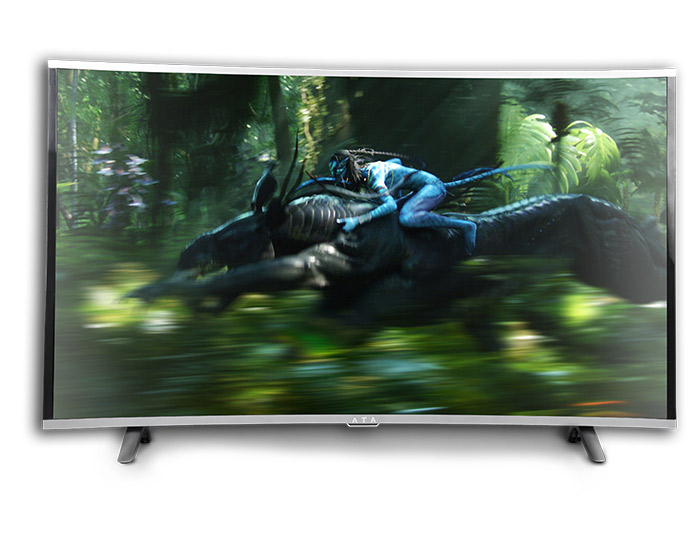
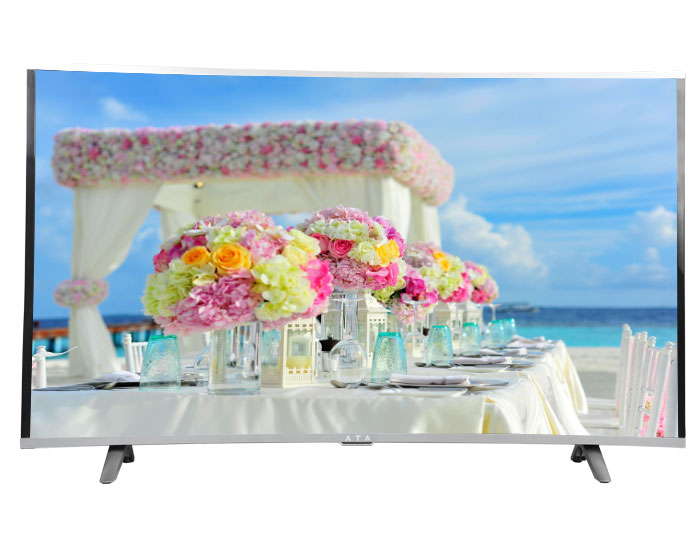
ata's ammends

diff --git a/assets/css/responsive.css b/assets/css/responsive.css
@@ -322,6 +322,19 @@
 	}
 }
 
-@media (max-width: 480px) {
-
+@media (max-width: 500px) {
+	.bx-wrapper, .bx-viewport, .bx-wrapper img {
+		height: 60%!important;
+		width: 100%;
+	}  
+	
+	#slider {
+		height: 200px;
+		background: #ffffff;
+		margin-bottom: 44px;
+		margin-top: 120px;
+	}
+	.sitemap-widget {
+    	margin-top: 310px;
+	}
 }

diff --git a/pages/home.tpl.php b/pages/home.tpl.php
@@ -11,10 +11,8 @@
     <div class="overlay">
    <ul class="bxslider">
   <li><img src="assets/images/slider/1.png" /></li>
-<!--  <li><img src="assets/images/slider/6.png" /></li>-->
-<!--  <li><img src="assets/images/slider/3.png" /></li>-->
-<!--  <li><img src="assets/images/slider/11.png" /></li>-->
-<!--  <li><img src="assets/images/slider/10.png" /></li>-->
+  <li><img src="assets/images/slider/4.png" /></li>
+  <li><img src="assets/images/slider/3.png" /></li>
   <li><img src="assets/images/slider/2.png" /></li>
 
 
@@ -92,11 +90,11 @@
                                     </div>
                                 </div>
                                 <div class="span3 project-post">
-                                    <img alt="" src="<?= IMG_DIR; ?>products/tv6.png">
+                                    <img alt="" src="<?= IMG_DIR; ?>products/tv3.jpg">
                                     <div class="project-content">
                                         <h2>شاشات</h2>
                                         <p>شاشة Curved LED</p>
-                                        <a class="zoom-image" href="<?= IMG_DIR; ?>products/tv6.png" title="شاشة Curved LED" data-fancybox-group="portfolio"></a>
+                                        <a class="zoom-image" href="<?= IMG_DIR; ?>products/tv3.jpg" title="شاشة Curved LED" data-fancybox-group="portfolio"></a>
                                         <a class="link-image" href="tv-curved-led.php"></a>
                                     </div>
                                 </div>
@@ -115,11 +113,11 @@
                                     </div>
                                 </div>
                                 <div class="span3 project-post">
-                                    <img alt="" src="<?= IMG_DIR; ?>products/tv-silver.png">
+                                    <img alt="" src="<?= IMG_DIR; ?>products/tv5.jpg">
                                     <div class="project-content">
                                         <h2>شاشات</h2>
                                         <p>شاشة SMART SILVER LED</p>
-                                        <a class="zoom-image" href="<?= IMG_DIR; ?>products/tv-silver.png" title="شاشة SMART SILVER LED" data-fancybox-group="portfolio"></a>
+                                        <a class="zoom-image" href="<?= IMG_DIR; ?>products/tv5.jpg" title="شاشة SMART SILVER LED" data-fancybox-group="portfolio"></a>
                                         <a class="link-image" href="tv-silver-smart.php"></a>
                                     </div>
                                 </div>
@@ -149,30 +147,15 @@
             </section>
 
             <section class="team">
-                <h2><span>فريق العمل</span></h2>
+                <h2><span>المصانع</span></h2>
                 <div class="row-fluid">
-                    <div class="span4 team-member">
-                        <h3>عطا عبد الحميد</h3>
-                        <img alt="" src="<?= IMG_DIR; ?>team/avatar-placeholder.png">
-                        <div>
-                            <p>مدير قسم المبيعات</p>
-                        </div>
+                    
+                    <div class="span12 team-member">
+
+                        <img alt="" src="<?= IMG_DIR; ?>masna3/1.png">
+
                     </div>
-                    <div class="span4 team-member">
-                        <h3>محمود عطا</h3>
-                        <img alt="" src="<?= IMG_DIR; ?>team/GM.jpg">
-                        <div>
-                        <p>رئيس مجلس الادارة</p>
-                            
-                        </div>
-                    </div>
-                    <div class="span4 team-member">
-                        <h3>  اسامة عطا </h3>
-                        <img alt="" src="<?= IMG_DIR; ?>team/CEO.jpg">
-                        <div>
-                            <p>مدير عام</p>
-                        </div>
-                    </div>
+
                 </div>
             </section>
 

diff --git a/pages/contact.tpl.php b/pages/contact.tpl.php
@@ -54,7 +54,7 @@
                                 <h3>اعثر علينا</h3>
                                     <p>
                                     ولأن التطور هدفنا والتنوع عندنا  حرصون دائماً على إرضاء جميع عملائنا 
-للتواصل من أجل الشكاوى والإقتراحات برجاء برجاء إرسال الرسائل مرفق معها الإسم ورقم التلفيون
+للتواصل من أجل الشكاوى والإقتراحات  برجاء إرسال الرسائل مرفق معها الإسم ورقم التلفيون
                                     </p>
                             </div>
                         </div>

diff --git a/partials/footer.tpl.php b/partials/footer.tpl.php
@@ -62,8 +62,6 @@
     <script type="text/javascript" src="<?= JS_DIR; ?>jquery.ba-cond.min.js"></script>
     <script type="text/javascript" src="<?= JS_DIR; ?>jquery.slitslider.js"></script>
     <script type="text/javascript" src="<?= JS_DIR; ?>jquery.nicescroll.js"></script>
-    <script type="text/javascript" src="<?= JS_DIR; ?>angular.min.js"></script>
-    <script type="text/javascript" src="<?= JS_DIR; ?>angular-route.min.js"></script>
     <script type="text/javascript" src="<?= JS_DIR; ?>bootstrap.min.js"></script>
     <script type="text/javascript" src="<?= JS_DIR; ?>jquery.imagesloaded.min.js"></script>
     <script type="text/javascript" src="<?= JS_DIR; ?>jquery.flexslider.js"></script>

diff --git a/pages/products.tpl.php b/pages/products.tpl.php
@@ -53,7 +53,7 @@
                     <div class="project-content">
                         <h2>شاشات</h2>
                         <p>شاشات SMART GOLD</p>
-                        <a class="zoom-image" href="<?= IMG_DIR; ?>products/tv4.jpg" title="شاشات SMART GOLD" data-fancybox-group="portfolio"></a>
+                        <a class="zoom-image" href="<?= IMG_DIR; ?>products/tv4.jpg " title="شاشات SMART GOLD" data-fancybox-group="portfolio"></a>
                         <a class="link-image" href="tv-gold-smart.php"></a>
                     </div>
                 </div>

diff --git a/partials/head.tpl.php b/partials/head.tpl.php
@@ -27,6 +27,7 @@
     <link rel="stylesheet" href="<?= CSS_DIR; ?>jquery.bxslider.css" type="text/css" media="screen">
     <link rel="stylesheet" href="<?= CSS_DIR; ?>flexslider.css" type="text/css" media="screen" />
     <link rel="stylesheet"  href="<?= CSS_DIR; ?>lightgallery.min.css" type="text/css" media="screen" />
+       
 
     <link rel="stylesheet" href="<?= CSS_DIR; ?>style.css" type="text/css" media="screen">
     <link rel="stylesheet" href="<?= CSS_DIR; ?>custom.css" type="text/css" media="screen">

diff --git a/pages/details/tv-gold-smart.tpl.php b/pages/details/tv-gold-smart.tpl.php
@@ -40,7 +40,7 @@
                                 <div class="flexslider">
                                     <ul class="slides">
                                         <li>
-                                            <img alt="" src="<?= IMG_DIR; ?>products/tv4.png" />
+                                            <img alt="" src="<?= IMG_DIR; ?>products/tv4.jpg" />
                                         </li>
 
 

diff --git a/pages/details/tv-silver-smart.tpl.php b/pages/details/tv-silver-smart.tpl.php
@@ -40,7 +40,7 @@
                                 <div class="flexslider">
                                     <ul class="slides">
                                         <li>
-                                            <img alt="" src="<?= IMG_DIR; ?>products/tv5.png" />
+                                            <img alt="" src="<?= IMG_DIR; ?>products/tv5.jpg" />
                                         </li>
 
 

diff --git a/pages/where-to-find-us.tpl.php b/pages/where-to-find-us.tpl.php
@@ -330,7 +330,7 @@
         <table class="table">
             <tr>
                 <th>اسم العميل</th>
-                <th>المحافظه</th>
+                <th>الموقع</th>
                 <th>رقم الموبيل</th>
             </tr>
 
